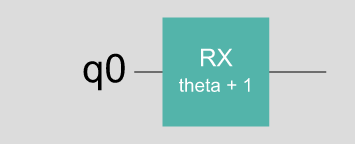
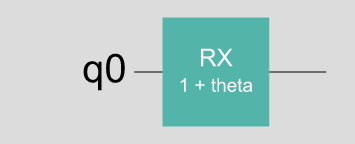
feat(python): expose visualization APIs in bindings

Changed region(s): [[0.4958, 0.5278, 0.7127, 0.6389]]

diff --git a/crates/binding-python/src/visualization.rs b/crates/binding-python/src/visualization.rs
@@ -1,0 +1,100 @@
+// This code is part of Cqlib.
+//
+// (C) Copyright China Telecom Quantum Group 2026
+//
+// This code is licensed under the Apache License, Version 2.0. You may
+// obtain a copy of this license in the LICENSE.txt file in the root directory
+// of this source tree or at http://www.apache.org/licenses/LICENSE-2.0.
+//
+// Any modifications or derivative works of this code must retain this
+// copyright notice, and modified files need to carry a notice indicating
+// that they have been altered from the originals.
+
+use crate::circuit::PyCircuit;
+use cqlib_core::visualization::{
+    FigureDrawerOptions, TextDrawerOptions, circuit_to_figure, circuit_to_text,
+    render_figure_to_file,
+};
+use pyo3::exceptions::PyValueError;
+use pyo3::prelude::*;
+
+/// Draw circuit as unicode text diagram.
+#[pyfunction(
+    name = "draw_text",
+    signature = (
+        circuit,
+        *,
+        line_width = None,
+        initial_state = false,
+        reverse_bits = false,
+        show_params = true,
+        decompose_circuit_gates = false
+    )
+)]
+pub fn py_draw_text(
+    circuit: &PyCircuit,
+    line_width: Option<isize>,
+    initial_state: bool,
+    reverse_bits: bool,
+    show_params: bool,
+    decompose_circuit_gates: bool,
+) -> PyResult<String> {
+    let mut options = TextDrawerOptions {
+        initial_state,
+        reverse_bits,
+        show_params,
+        decompose_circuit_gates,
+        ..TextDrawerOptions::default()
+    };
+    if let Some(width) = line_width {
+        options.line_width = width;
+    }
+
+    circuit_to_text(&circuit.inner, &options)
+        .map_err(|e| PyValueError::new_err(format!("text visualization error: {e}")))
+}
+
+/// Draw circuit as SVG string.
+#[pyfunction(
+    name = "draw_figure",
+    signature = (
+        circuit,
+        *,
+        fold = None,
+        initial_state = false,
+        reverse_bits = false,
+        show_params = true,
+        decompose_circuit_gates = false,
+        output_path = None
+    )
+)]
+pub fn py_draw_figure(
+    circuit: &PyCircuit,
+    fold: Option<i32>,
+    initial_state: bool,
+    reverse_bits: bool,
+    show_params: bool,
+    decompose_circuit_gates: bool,
+    output_path: Option<&str>,
+) -> PyResult<String> {
+    let mut options = FigureDrawerOptions {
+        initial_state,
+        reverse_bits,
+        show_params,
+        decompose_circuit_gates,
+        ..FigureDrawerOptions::default()
+    };
+    if let Some(fold_value) = fold {
+        options.fold = fold_value;
+    }
+
+    let svg = circuit_to_figure(&circuit.inner, &options)
+        .map_err(|e| PyValueError::new_err(format!("figure visualization error: {e}")))?;
+
+    if let Some(path) = output_path {
+        render_figure_to_file(&circuit.inner, path, &options)
+            .map_err(|e| PyValueError::new_err(format!("figure render error: {e}")))?;
+    }
+
+    Ok(svg)
+}

diff --git a/crates/binding-python/cqlib/visualization/__init__.py b/crates/binding-python/cqlib/visualization/__init__.py
@@ -1,0 +1,53 @@
+# This code is part of Cqlib.
+#
+# (C) Copyright China Telecom Quantum Group 2026
+#
+# This code is licensed under the Apache License, Version 2.0. You may
+# obtain a copy of this license in the LICENSE.txt file in the root directory
+# of this source tree or at http:#www.apache.org/licenses/LICENSE-2.0.
+#
+# Any modifications or derivative works of this code must retain this
+# copyright notice, and modified files need to carry a notice indicating
+# that they have been altered from the originals.
+
+from __future__ import annotations
+
+from .._native import draw_figure as _draw_figure
+from .._native import draw_text
+
+
+class _InlineSvg(str):
+    """String SVG wrapper with rich display support for notebook frontends."""
+
+    def _repr_svg_(self) -> str:
+        return str(self)
+
+
+def draw_figure(
+    circuit,
+    *,
+    fold=None,
+    initial_state=False,
+    reverse_bits=False,
+    show_params=True,
+    decompose_circuit_gates=False,
+    output_path=None,
+):
+    """Render a circuit as SVG.
+
+    In notebook frontends, the return value displays inline when used as the
+    last expression in a cell.
+    """
+    svg = _draw_figure(
+        circuit,
+        fold=fold,
+        initial_state=initial_state,
+        reverse_bits=reverse_bits,
+        show_params=show_params,
+        decompose_circuit_gates=decompose_circuit_gates,
+        output_path=output_path,
+    )
+    return _InlineSvg(svg)
+
+
+__all__ = ["draw_text", "draw_figure"]

diff --git a/crates/binding-python/src/circuit/circuit_impl.rs b/crates/binding-python/src/circuit/circuit_impl.rs
@@ -52,6 +52,7 @@ use crate::circuit::operation::PyOperationIter;
 use crate::qis::pauli::PyPauliString;
 use cqlib_core::circuit::circuit_param::CircuitParam;
 use cqlib_core::circuit::circuit_param::ParameterValue;
+use crate::visualization::py_draw_text;
 use cqlib_core::circuit::gate::Instruction;
 use cqlib_core::circuit::{Circuit, Operation, Qubit};
 use cqlib_core::qis::evolution::PauliEvolution;
@@ -1328,6 +1329,14 @@ impl PyCircuit {
             .map_err(|e| PyValueError::new_err(e.to_string()))?;
 
         Ok(())
+    }
+
+    fn __str__(&self) -> PyResult<String> {
+        py_draw_text(self, None, false, false, true, false)
+    }
+
+    fn __repr__(&self) -> PyResult<String> {
+        self.__str__()
     }
 }
 

diff --git a/crates/binding-python/src/lib.rs b/crates/binding-python/src/lib.rs
@@ -15,6 +15,7 @@ pub mod compile;
 pub mod device;
 pub mod ir;
 pub mod qis;
+pub mod visualization;
 
 use pyo3::prelude::*;
 
@@ -65,6 +66,10 @@ fn binding_python(m: &Bound<'_, PyModule>) -> PyResult<()> {
 
     // Register static gate instances (H, X, etc.) to StandardGate class
     circuit::gate::standard::register_gates(m)?;
+
+    // Register visualization functions
+    m.add_function(wrap_pyfunction!(visualization::py_draw_text, m)?)?;
+    m.add_function(wrap_pyfunction!(visualization::py_draw_figure, m)?)?;
 
     Ok(())
 }

diff --git a/crates/cqlib-core/src/visualization/circuit/text_tests.rs b/crates/cqlib-core/src/visualization/circuit/text_tests.rs
@@ -11,7 +11,7 @@
 // that they have been altered from the originals.
 
 use super::*;
-use crate::circuit::param::ParameterValue;
+use crate::circuit::circuit_param::ParameterValue;
 use crate::circuit::{Circuit, Parameter, Qubit};
 use crate::circuit::{ConditionView, Directive, Instruction, Operation, StandardGate};
 use crate::visualization::circuit::builder::build_visual_circuit;
@@ -482,7 +482,7 @@ fn test_parameter_symbolic_with_value_for_symbolic_expr_in_text_from_visual() {
     let text = draw_text_from_visual(&visual, &TextDrawerOptions::default()).unwrap();
     let resp = r#"
                   
- Q0: ───RX(theta + 1)─
+ Q0: ───RX(1 + theta)─
                   
 
 "#;

diff --git a/crates/binding-python/cqlib/__init__.py b/crates/binding-python/cqlib/__init__.py
@@ -14,6 +14,7 @@ from .circuit import Parameter, Circuit, Qubit
 from .compiler import SabreConfig
 from .device import Topology
 from .qis import DensityMatrix, Pauli, PauliString, Phase, Statevector
+from .visualization import draw_text, draw_figure
 
 __all__ = [
     "Parameter",
@@ -26,4 +27,6 @@ __all__ = [
     "Phase",
     "Statevector",
     "DensityMatrix",
+    "draw_text",
+    "draw_figure",
 ]

diff --git a/crates/cqlib-core/src/visualization/circuit/figure_tests.rs b/crates/cqlib-core/src/visualization/circuit/figure_tests.rs
@@ -11,7 +11,7 @@
 // that they have been altered from the originals.
 
 use super::*;
-use crate::circuit::param::ParameterValue;
+use crate::circuit::circuit_param::ParameterValue;
 use crate::circuit::{
     Circuit, ConditionView, Instruction, Operation, Parameter, Qubit, StandardGate, UnitaryGate,
 };
@@ -729,4 +729,3 @@ fn test_fold_layout() {
         "fold_layout.png",
     );
 }
-

diff --git a/crates/cqlib-core/src/visualization/circuit/builder_tests.rs b/crates/cqlib-core/src/visualization/circuit/builder_tests.rs
@@ -13,7 +13,7 @@
 //! Tests for the visualization IR builder module.
 
 use super::*;
-use crate::circuit::param::ParameterValue;
+use crate::circuit::circuit_param::ParameterValue;
 use crate::circuit::parameter::Parameter;
 use crate::circuit::{Circuit, ConditionView, Instruction, Operation, Qubit, StandardGate};
 use crate::visualization::circuit::model::{

diff --git a/crates/cqlib-core/src/visualization/circuit/parameter_formatter.rs b/crates/cqlib-core/src/visualization/circuit/parameter_formatter.rs
@@ -17,7 +17,7 @@
 //! [`ParameterFormatter`].
 
 use crate::circuit::Circuit;
-use crate::circuit::param::CircuitParam;
+use crate::circuit::circuit_param::CircuitParam;
 use crate::circuit::parameter::Parameter;
 use crate::visualization::circuit::error::VisualizationError;
 use std::f64::consts::PI;

diff --git a/crates/cqlib-core/src/visualization/circuit/parameter_formatter_tests.rs b/crates/cqlib-core/src/visualization/circuit/parameter_formatter_tests.rs
@@ -13,7 +13,7 @@
 //! Tests for the parameter formatter module.
 
 use super::*;
-use crate::circuit::param::CircuitParam;
+use crate::circuit::circuit_param::CircuitParam;
 use crate::circuit::parameter::Parameter;
 use crate::circuit::{Circuit, Qubit};
 use crate::visualization::ParameterDisplayMode;

diff --git a/crates/cqlib-core/src/visualization/circuit/mod.rs b/crates/cqlib-core/src/visualization/circuit/mod.rs
@@ -70,3 +70,4 @@ mod style_tests;
 #[cfg(test)]
 #[path = "text_tests.rs"]
 mod text_tests;
+